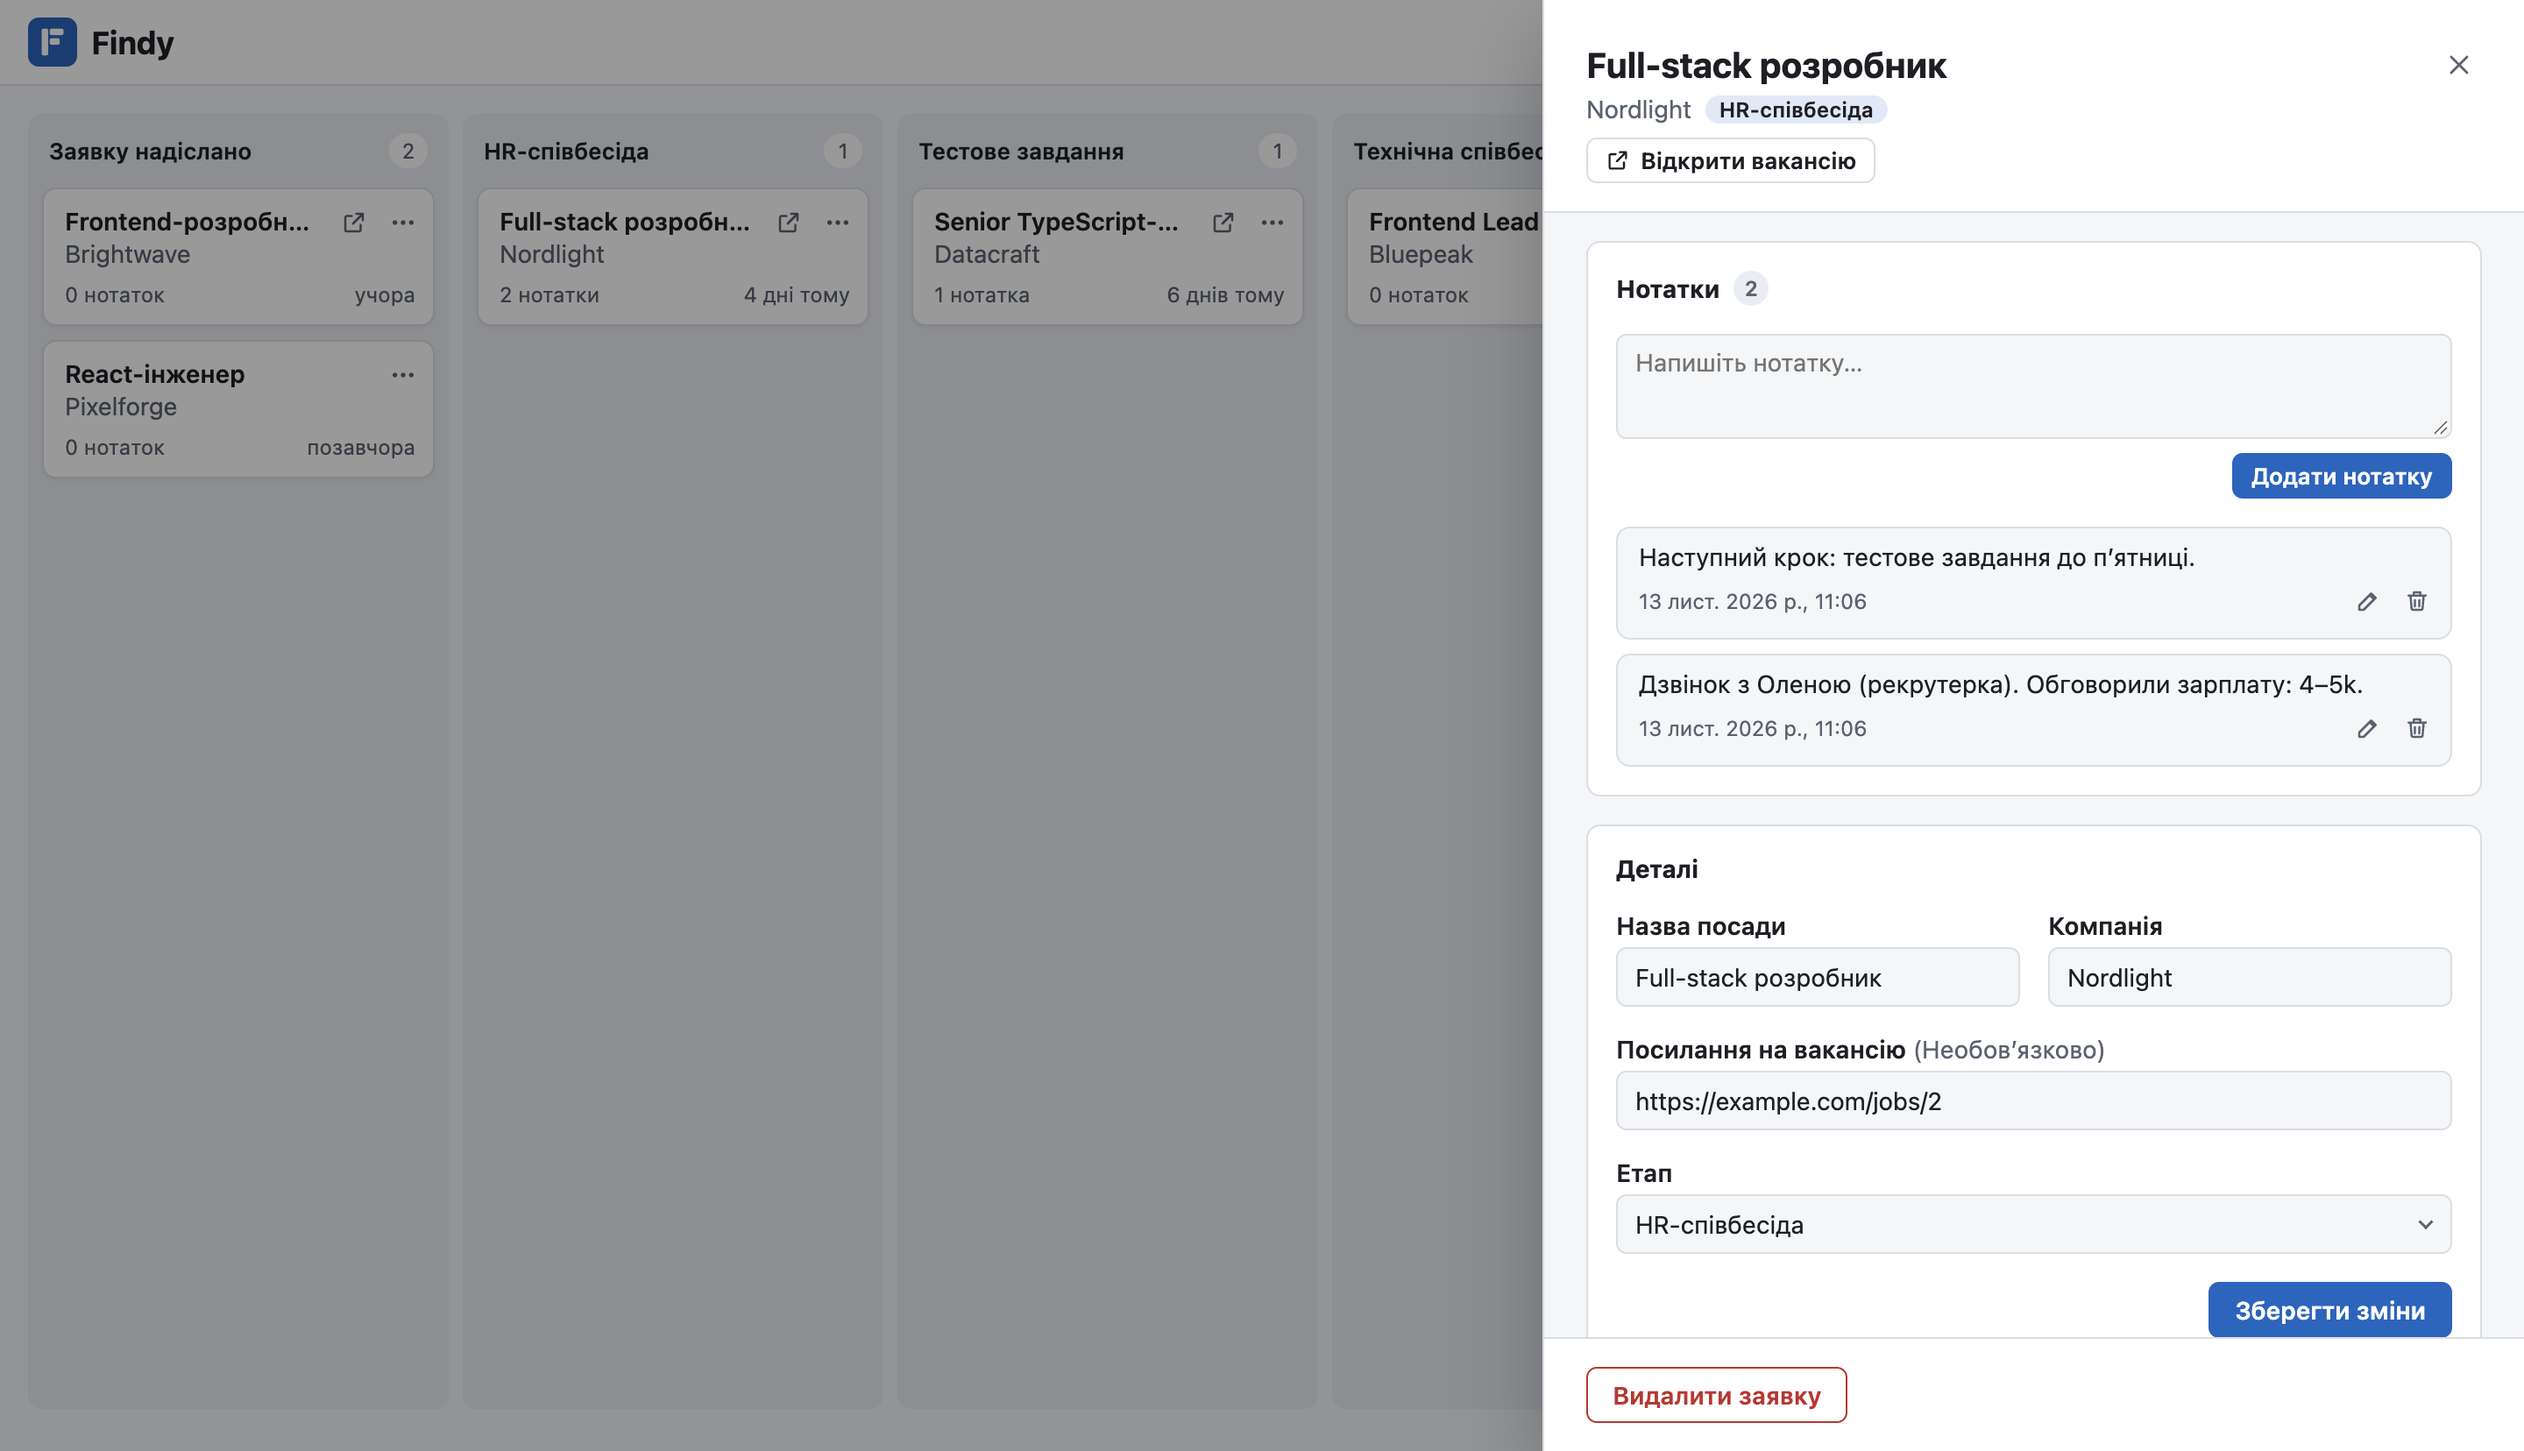
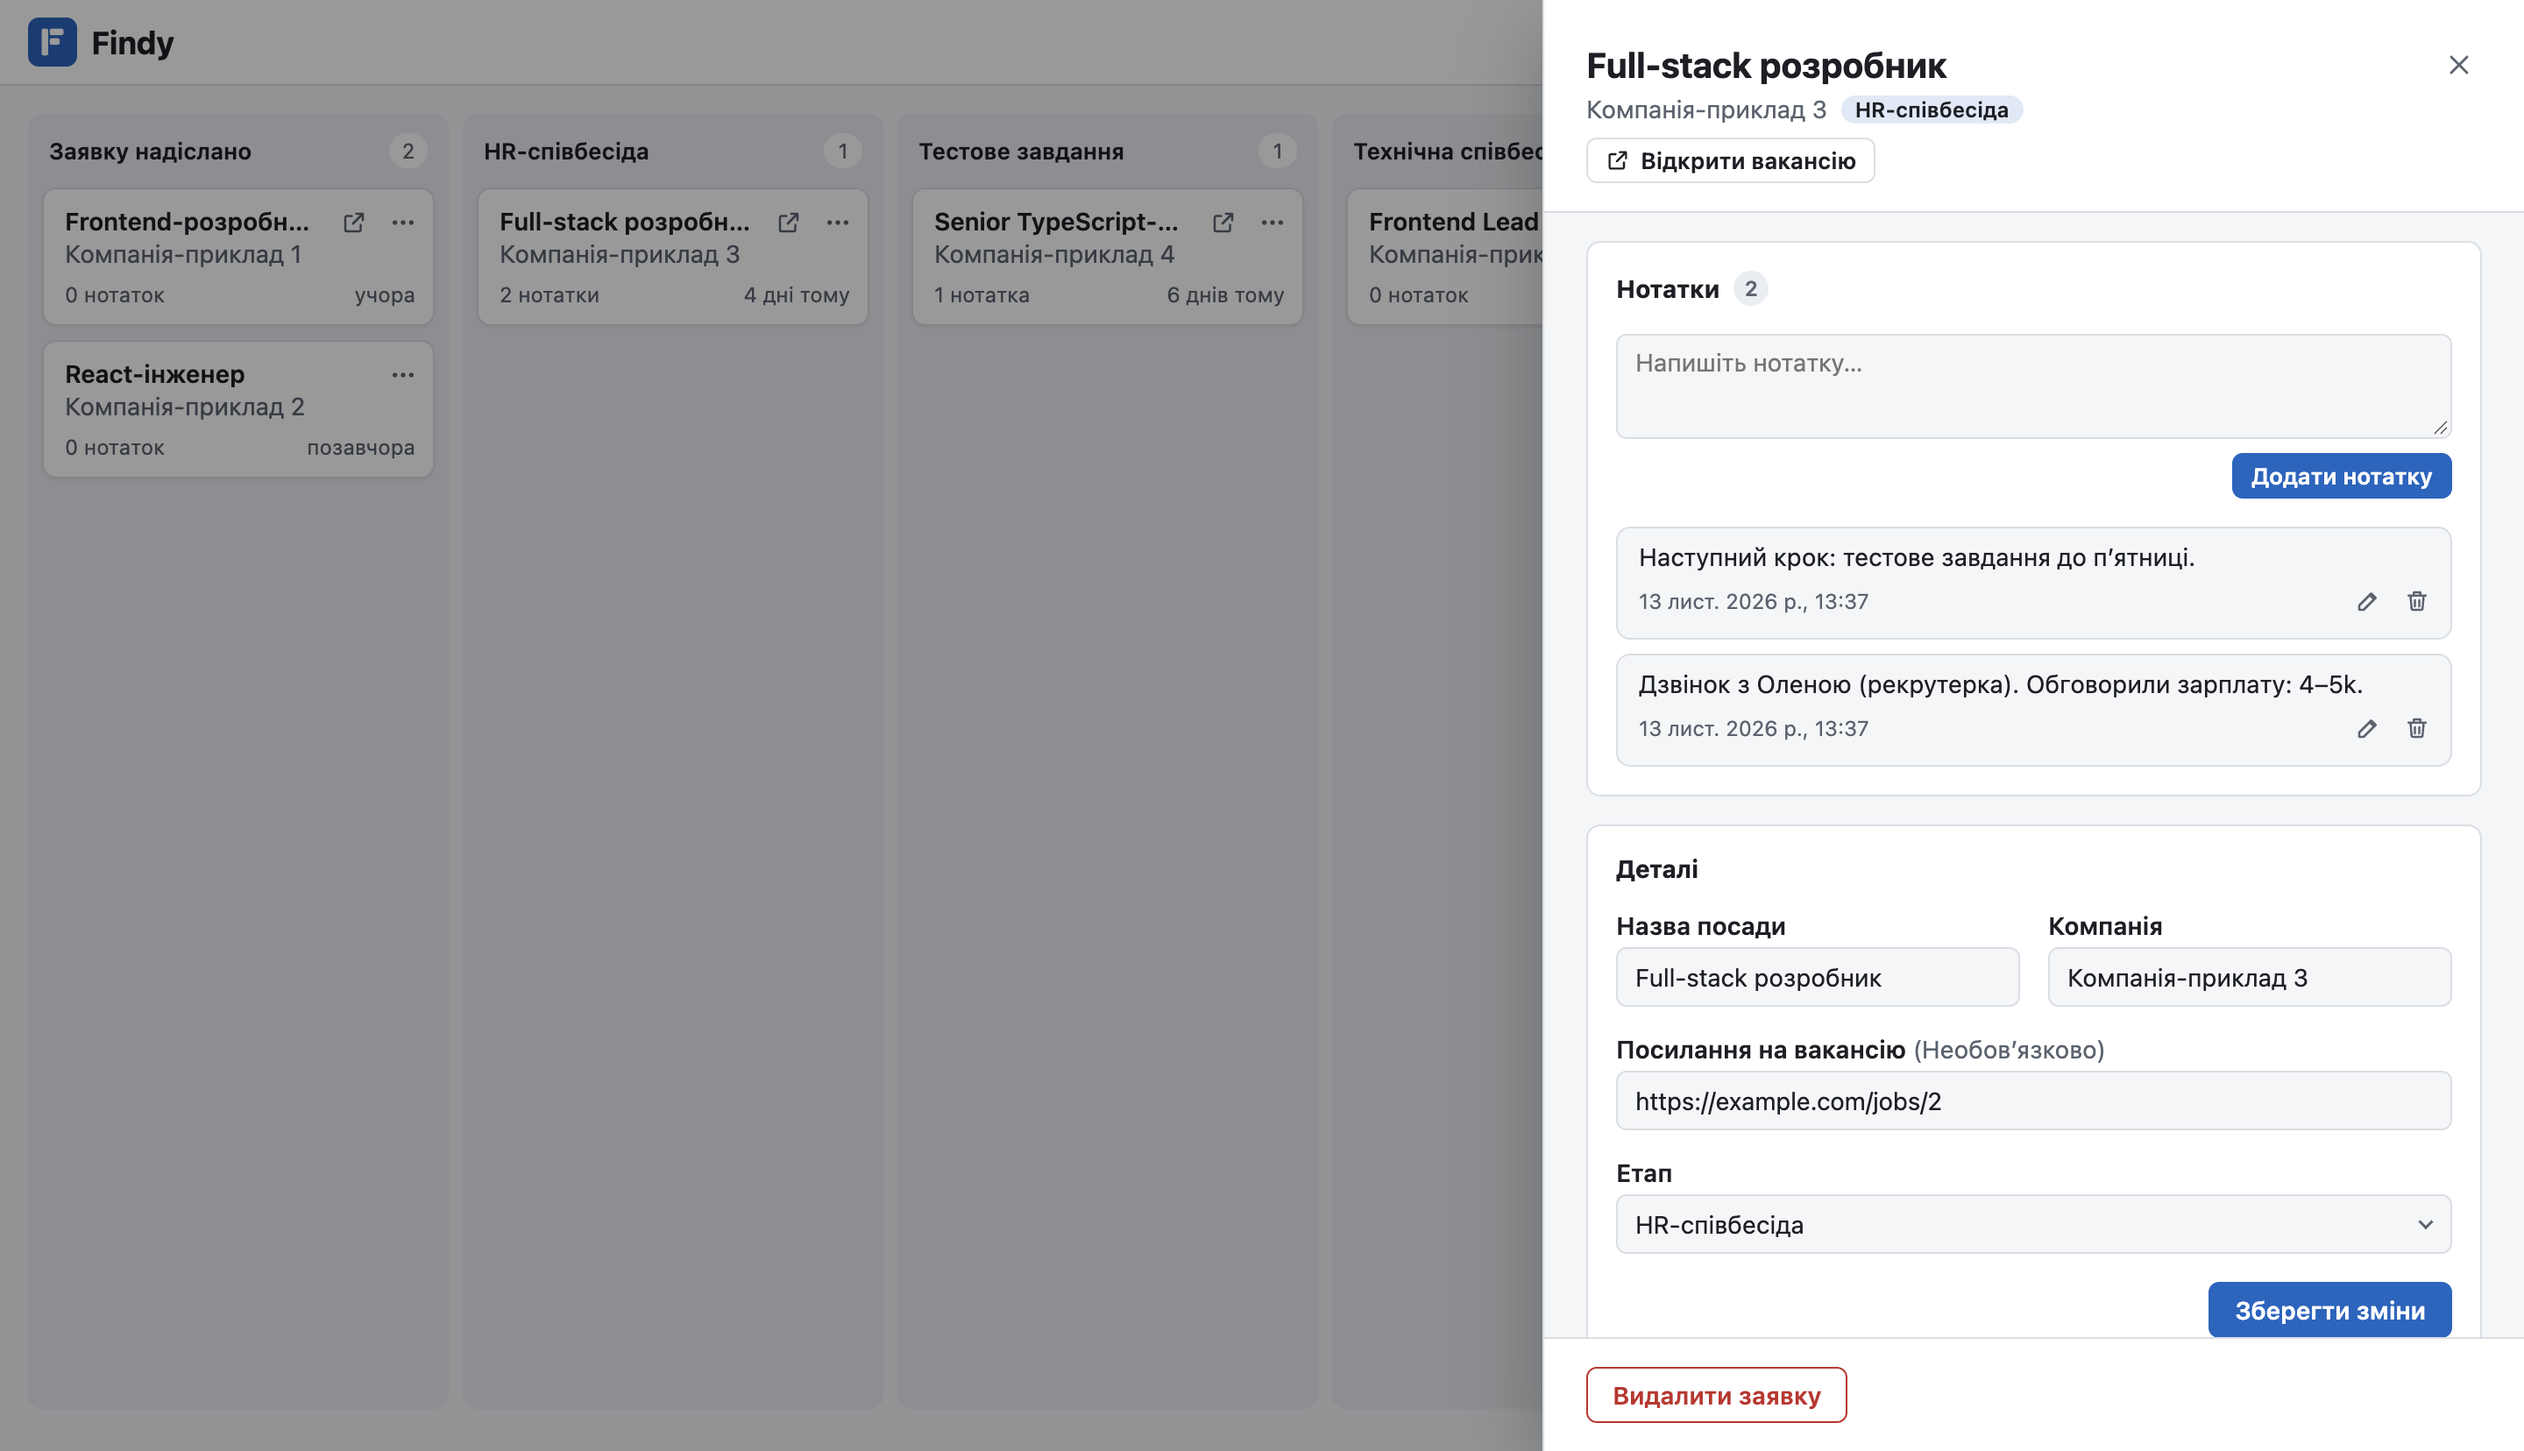
docs(screenshots): made-up company names (Example Company 1…8)
The demo data used names that can belong to real companies. Screenshots go to
the README and social posts, so they now show Example Company 1…8 (en) and
Компанія-приклад 1…8 (uk).

diff --git a/e2e/self-tests/readme-screenshots.test.ts b/e2e/self-tests/readme-screenshots.test.ts
@@ -18,19 +18,20 @@ type Demo = {
   notes?: string[]
 }
 
+// Made-up companies only: screenshots go to the README and social posts
 const DATA: Record<'en' | 'uk', Demo[]> = {
   en: [
     {
       title: 'Frontend Developer',
-      company: 'Brightwave',
+      company: 'Example Company 1',
       stage: 'applied',
       days: 1,
       url: 'https://example.com/jobs/1',
     },
-    { title: 'React Engineer', company: 'Pixelforge', stage: 'applied', days: 2 },
+    { title: 'React Engineer', company: 'Example Company 2', stage: 'applied', days: 2 },
     {
       title: 'Full-stack Developer',
-      company: 'Nordlight',
+      company: 'Example Company 3',
       stage: 'hr_interview',
       days: 4,
       url: 'https://example.com/jobs/2',
@@ -41,41 +42,41 @@ const DATA: Record<'en' | 'uk', Demo[]> = {
     },
     {
       title: 'Senior TypeScript Developer',
-      company: 'Datacraft',
+      company: 'Example Company 4',
       stage: 'test_task',
       days: 6,
       url: 'https://example.com/jobs/3',
       notes: ['Take-home: small kanban app, 3 days.'],
     },
-    { title: 'Frontend Lead', company: 'Bluepeak', stage: 'technical_interview', days: 9 },
+    { title: 'Frontend Lead', company: 'Example Company 5', stage: 'technical_interview', days: 9 },
     {
       title: 'Software Engineer',
-      company: 'Cloudnest',
+      company: 'Example Company 6',
       stage: 'c_level_interview',
       days: 12,
       notes: ['Talk with the CTO about the team and roadmap.'],
     },
     {
       title: 'UI Engineer',
-      company: 'Greenfield',
+      company: 'Example Company 7',
       stage: 'offered',
       days: 15,
       url: 'https://example.com/jobs/4',
     },
-    { title: 'JavaScript Developer', company: 'Quanta Labs', stage: 'rejected', days: 20 },
+    { title: 'JavaScript Developer', company: 'Example Company 8', stage: 'rejected', days: 20 },
   ],
   uk: [
     {
       title: 'Frontend-розробник',
-      company: 'Brightwave',
+      company: 'Компанія-приклад 1',
       stage: 'applied',
       days: 1,
       url: 'https://example.com/jobs/1',
     },
-    { title: 'React-інженер', company: 'Pixelforge', stage: 'applied', days: 2 },
+    { title: 'React-інженер', company: 'Компанія-приклад 2', stage: 'applied', days: 2 },
     {
       title: 'Full-stack розробник',
-      company: 'Nordlight',
+      company: 'Компанія-приклад 3',
       stage: 'hr_interview',
       days: 4,
       url: 'https://example.com/jobs/2',
@@ -86,28 +87,33 @@ const DATA: Record<'en' | 'uk', Demo[]> = {
     },
     {
       title: 'Senior TypeScript-розробник',
-      company: 'Datacraft',
+      company: 'Компанія-приклад 4',
       stage: 'test_task',
       days: 6,
       url: 'https://example.com/jobs/3',
       notes: ['Тестове: маленький канбан-застосунок, 3 дні.'],
     },
-    { title: 'Frontend Lead', company: 'Bluepeak', stage: 'technical_interview', days: 9 },
+    {
+      title: 'Frontend Lead',
+      company: 'Компанія-приклад 5',
+      stage: 'technical_interview',
+      days: 9,
+    },
     {
       title: 'Software Engineer',
-      company: 'Cloudnest',
+      company: 'Компанія-приклад 6',
       stage: 'c_level_interview',
       days: 12,
       notes: ['Розмова з CTO про команду й плани.'],
     },
     {
       title: 'UI-інженер',
-      company: 'Greenfield',
+      company: 'Компанія-приклад 7',
       stage: 'offered',
       days: 15,
       url: 'https://example.com/jobs/4',
     },
-    { title: 'JavaScript-розробник', company: 'Quanta Labs', stage: 'rejected', days: 20 },
+    { title: 'JavaScript-розробник', company: 'Компанія-приклад 8', stage: 'rejected', days: 20 },
   ],
 }
 
